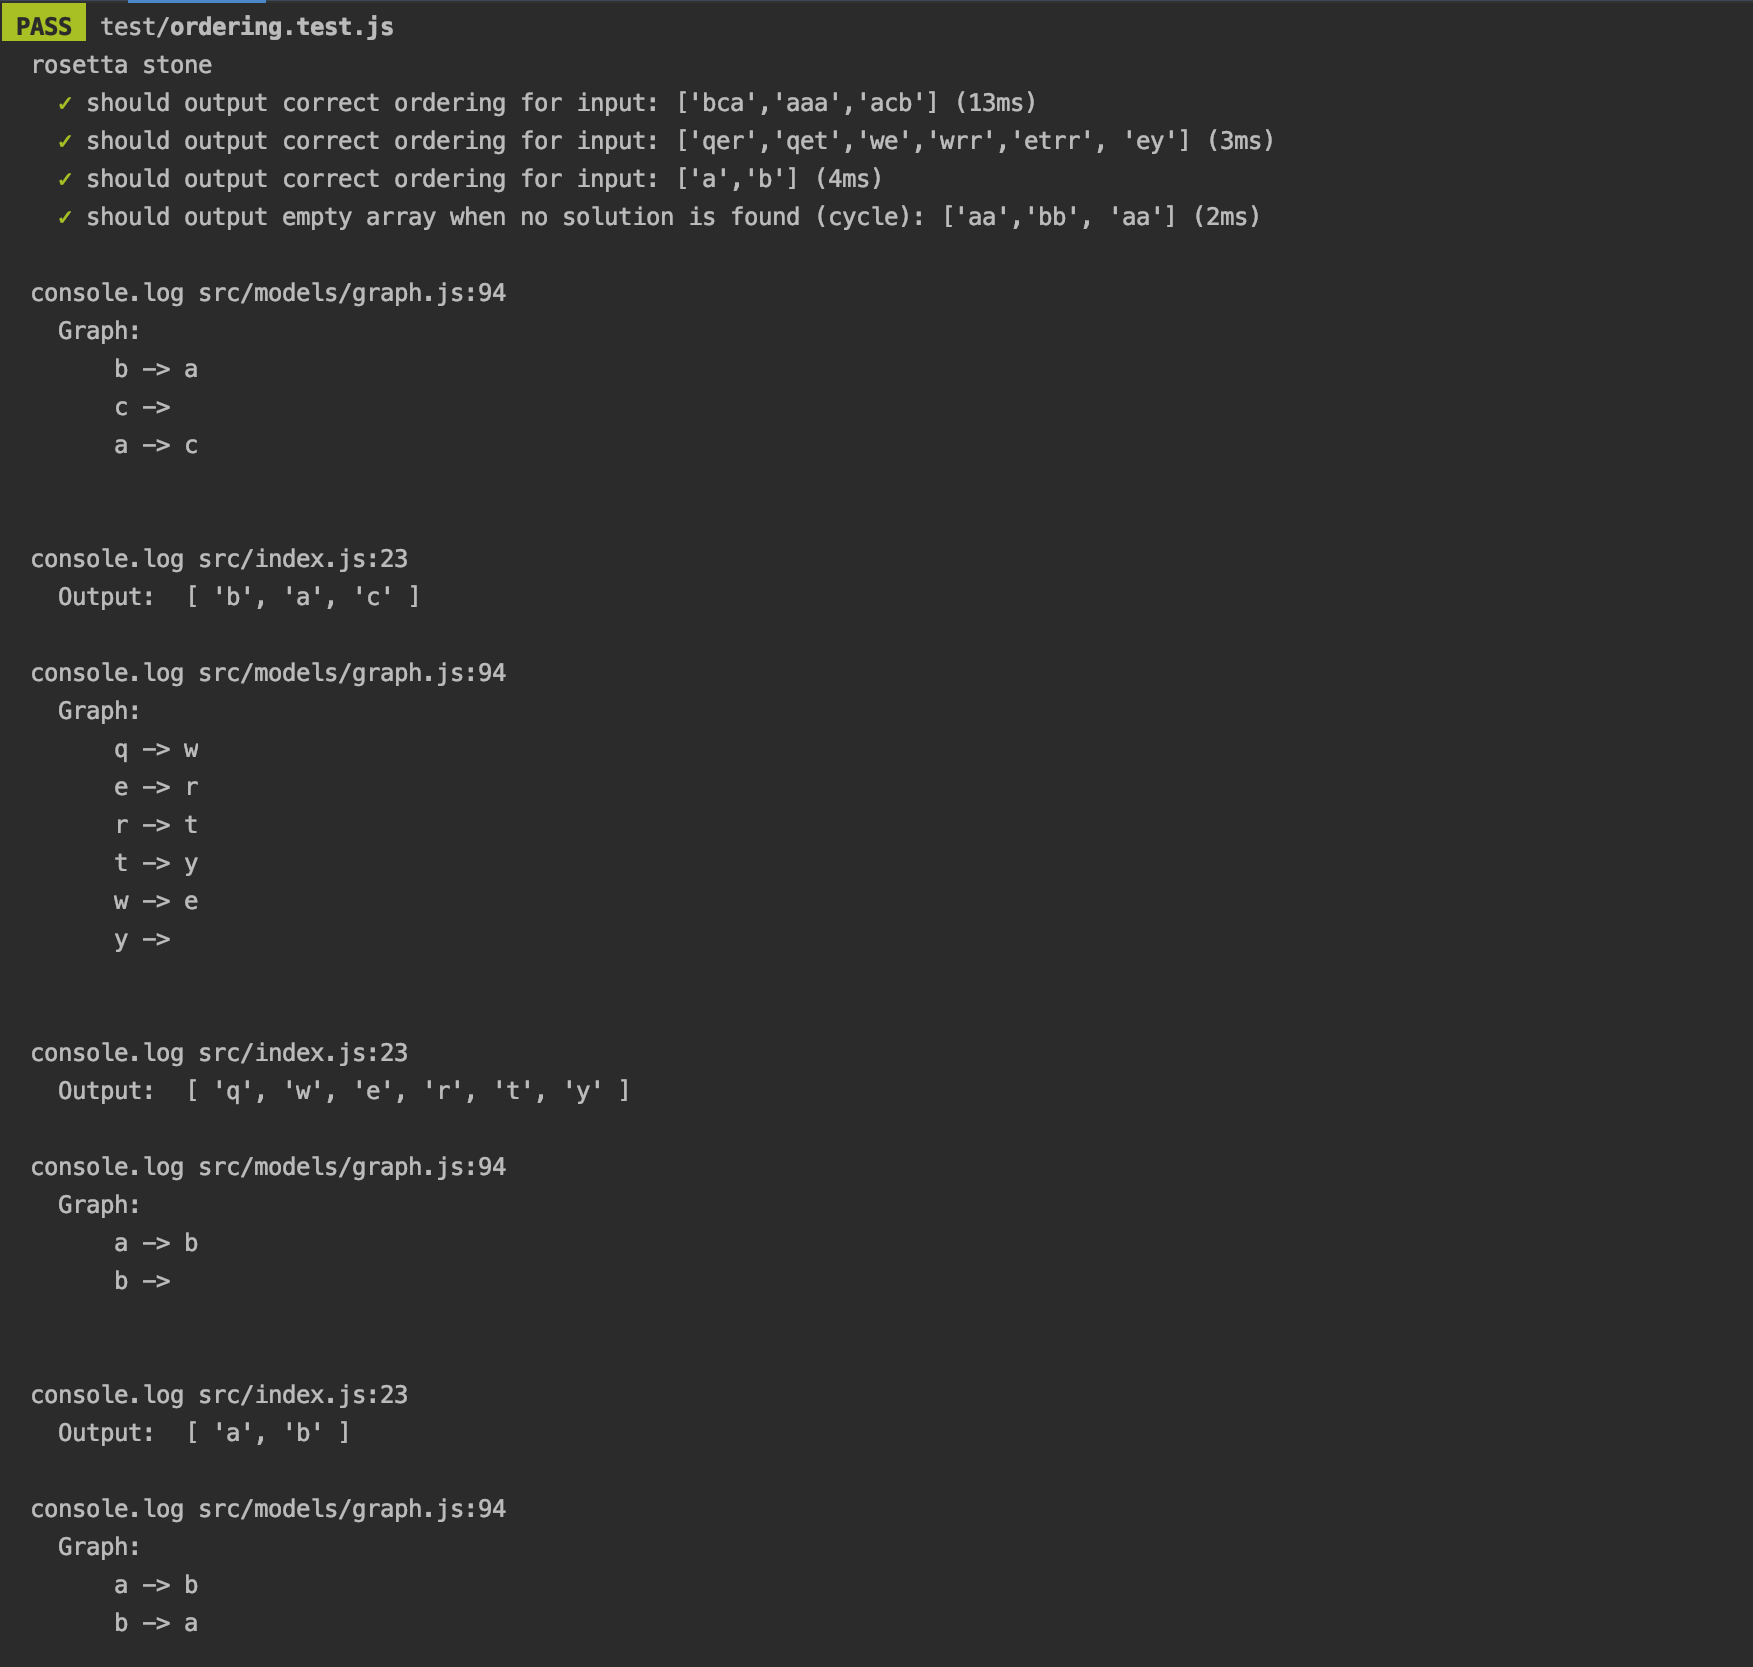
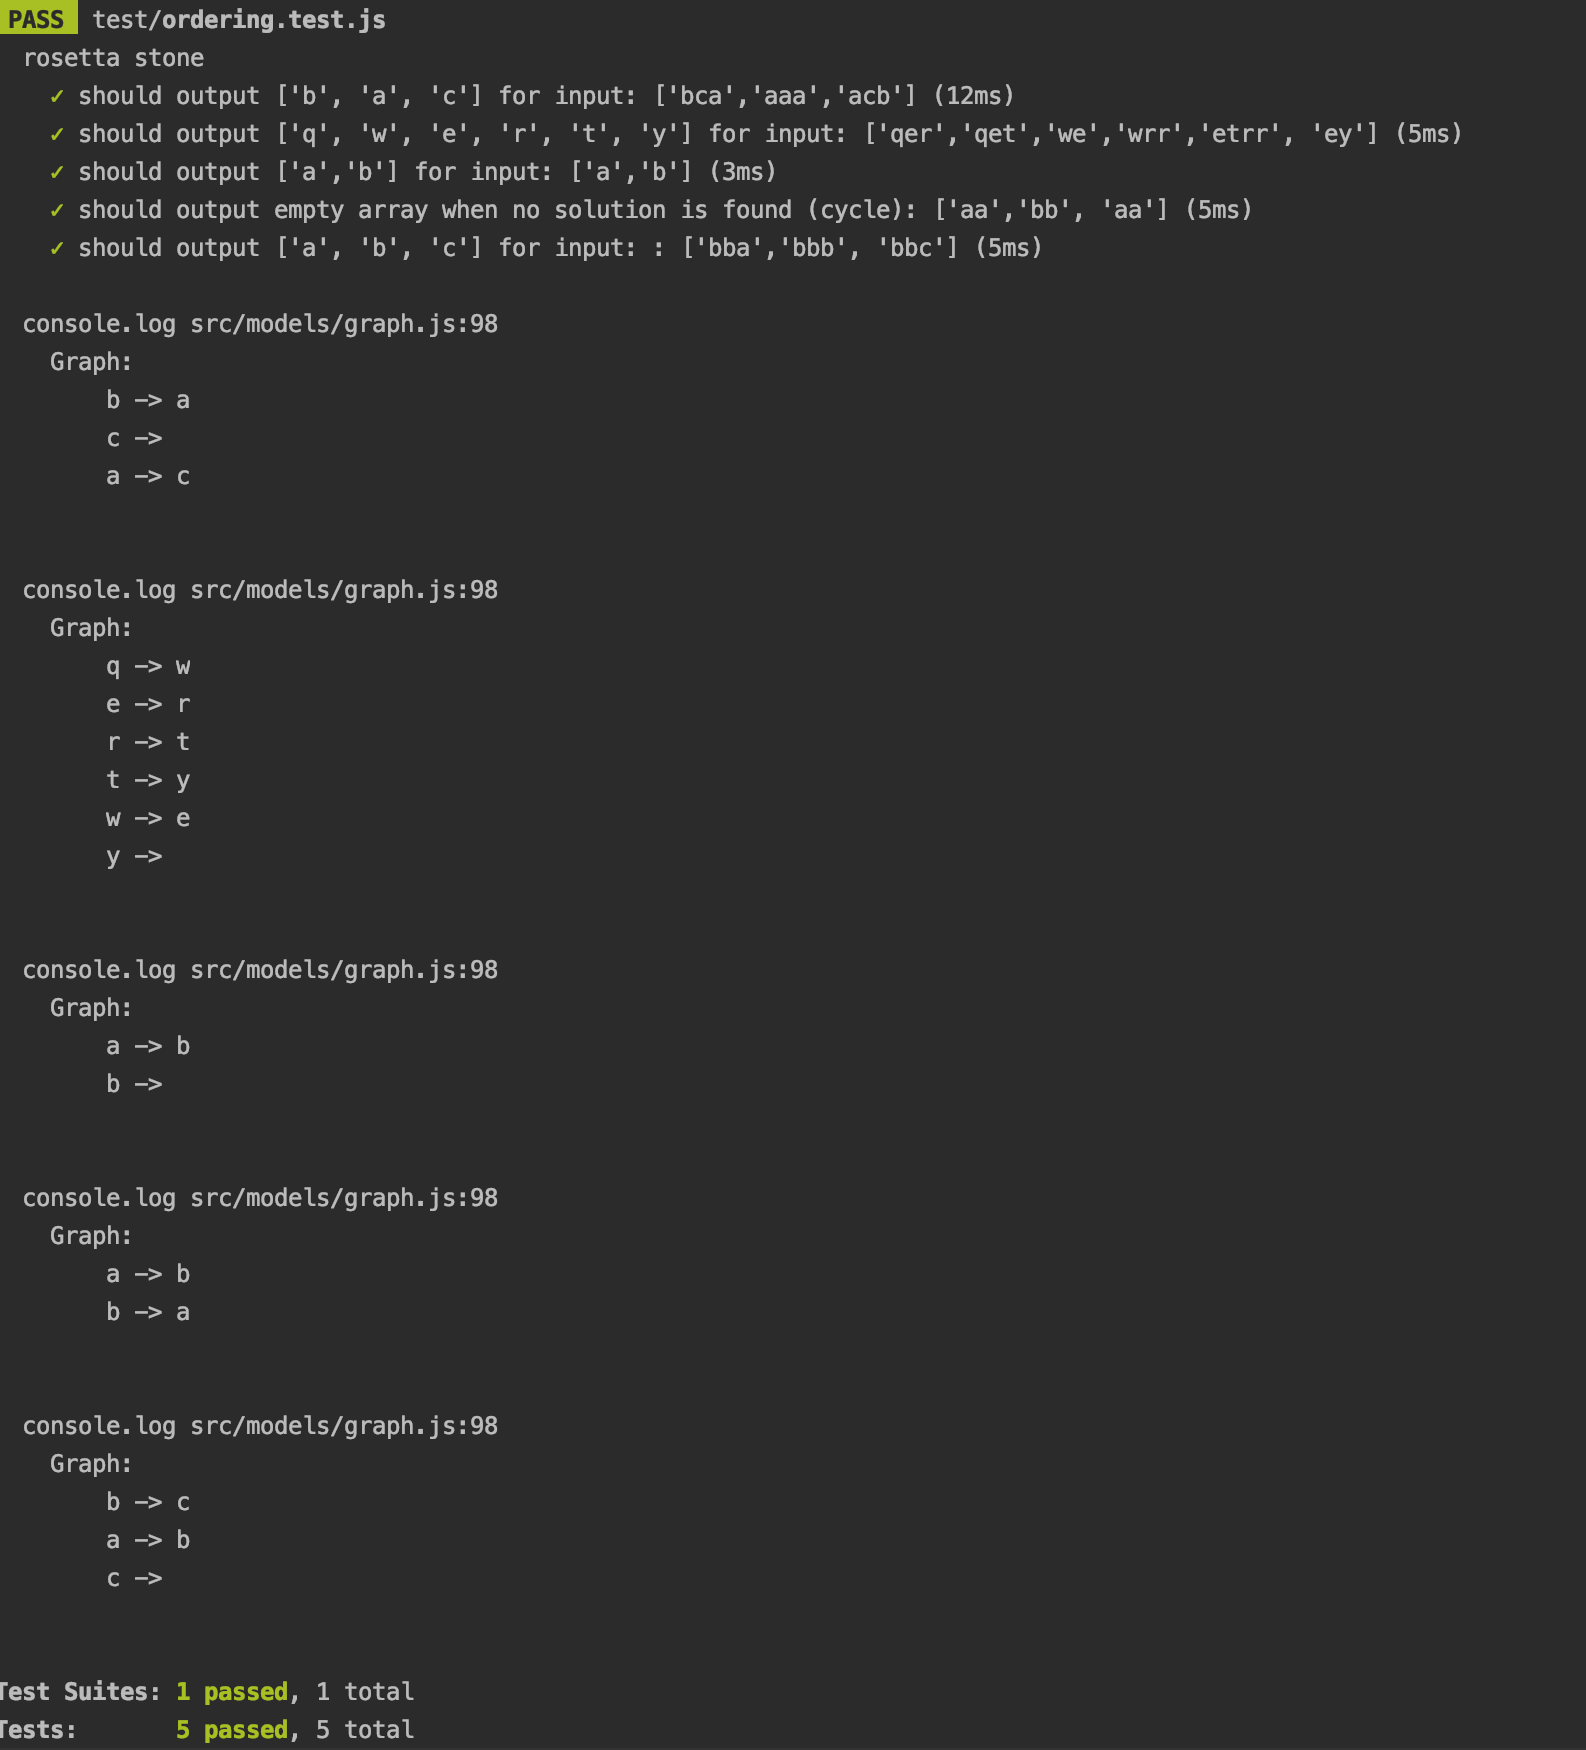
Small fixes

diff --git a/script/cli.js b/script/cli.js
@@ -9,25 +9,25 @@ const rosettaStone = require('../src/index')
 if (!process.argv[2]) {
   console.log('~~~~~~~~~~~~~~~~~~~~~~~~~~~~~~~~~~~~~~~~~~~~~~~~~~~~~~~')
   console.log("Input: [ 'bca', 'aaa', 'acb']")
-  rosettaStone(['bca','aaa','acb'])
+  console.log('Output: ', rosettaStone(['bca','aaa','acb']))
 
   console.log('~~~~~~~~~~~~~~~~~~~~~~~~~~~~~~~~~~~~~~~~~~~~~~~~~~~~~~~')
   console.log("Input: ['qer', 'qet', 'we', 'wrr', 'etrr', 'ey']")
-  rosettaStone(['qer','qet','we','wrr','etrr', 'ey'])
+  console.log('Output: ', rosettaStone(['qer','qet','we','wrr','etrr', 'ey']))
 
   console.log('~~~~~~~~~~~~~~~~~~~~~~~~~~~~~~~~~~~~~~~~~~~~~~~~~~~~~~~')
   console.log("Input: ['aa', 'bb']")
-  rosettaStone(['aa','bb'])
+  console.log('Output: ', rosettaStone(['aa','bb']))
 
   console.log('~~~~~~~~~~~~~~~~~~~~~~~~~~~~~~~~~~~~~~~~~~~~~~~~~~~~~~~')
   console.log("Input: ['aa', 'bb', 'aa']")
-  rosettaStone(['aa','bb', 'aa'])
+  console.log('Output: ',rosettaStone(['aa','bb', 'aa']))
 
   console.log('~~~~~~~~~~~~~~~~~~~~~~~~~~~~~~~~~~~~~~~~~~~~~~~~~~~~~~~')
   console.log("Input: ['bba', 'bbb', 'bbc']")
-  rosettaStone(['bba','bbb', 'bbc'])
+  console.log('Output: ',rosettaStone(['bba','bbb', 'bbc']))
 }else{
   let args = process.argv.slice(2)
-  console.log("Input: ", args)
-  rosettaStone(args)
+  console.log('Input: ', args)
+  console.log('Output: ', rosettaStone(args))
 }

diff --git a/test/ordering.test.js b/test/ordering.test.js
@@ -1,15 +1,15 @@
 const rosettaStone = require('../src/index')
 
 describe("rosetta stone", () => {
-  it("should output correct ordering for input: ['bca','aaa','acb']", () => {
+  it("should output ['b', 'a', 'c'] for input: ['bca','aaa','acb']", () => {
      expect(rosettaStone(['bca','aaa','acb'])).toEqual(['b', 'a', 'c'])
   })
 
-  it("should output correct ordering for input: ['qer','qet','we','wrr','etrr', 'ey']", () => {
+  it("should output ['q', 'w', 'e', 'r', 't', 'y'] for input: ['qer','qet','we','wrr','etrr', 'ey']", () => {
     expect(rosettaStone(['qer','qet','we','wrr','etrr', 'ey'])).toEqual(['q', 'w', 'e', 'r', 't', 'y'])
   })
 
-  it("should output correct ordering for input: ['a','b']", () => {
+  it("should output ['a','b'] for input: ['a','b']", () => {
     expect(rosettaStone(['aa','bb'])).toEqual(['a','b'])
   })
 
@@ -17,7 +17,7 @@ describe("rosetta stone", () => {
     expect(rosettaStone(['aa','bb','aa'])).toEqual([])
   })
 
-  it("should output correct ordering for input: : ['bba','bbb', 'bbc']", () => {
+  it("should output ['a', 'b', 'c'] for input: : ['bba','bbb', 'bbc']", () => {
     expect(rosettaStone(['bba','bbb', 'bbc'])).toEqual(['a', 'b', 'c'])
   })
 })

diff --git a/src/index.js b/src/index.js
@@ -1,8 +1,9 @@
+'use strict'
 const Graph =  require('./models/graph')
 
 function rosettaStone(words) {
   let graph = new Graph()
-  // add vertices for each character
+  // add vertices for each unique character
   words.forEach(w => w.split('').forEach(ch => graph.addVertex(ch)))
 
   words.reduce((prev, curr) => {
@@ -19,9 +20,7 @@ function rosettaStone(words) {
   // print the graph just for fun
   graph.print()
 
-  let ordering = graph.dfs()
-  console.log('Output: ', ordering)
-  return ordering
+  return graph.dfs()
 }
 
 module.exports = rosettaStone

diff --git a/src/models/graph.js b/src/models/graph.js
@@ -1,5 +1,4 @@
 'use strict'
-
 class Graph {
 
   constructor() {
